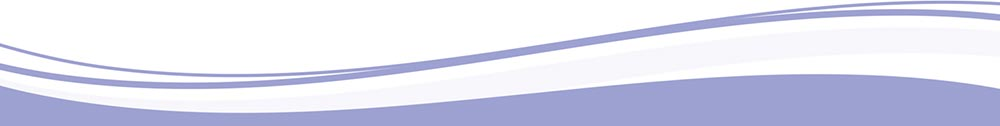
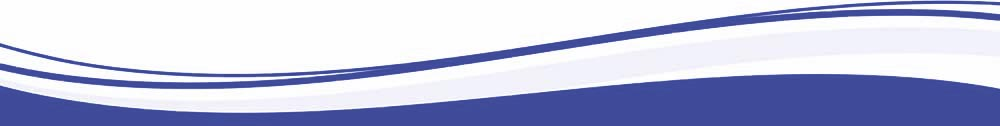
Email template fix

diff --git a/wp-content/themes/holidays/includes/helpers/class-mailer.php b/wp-content/themes/holidays/includes/helpers/class-mailer.php
@@ -6,6 +6,8 @@ if ( ! defined( 'ABSPATH' ) ) {
 
 class Kanda_Mailer {
 
+    private $layout_path = '';
+
     /**
      * Singleton.
      */
@@ -18,44 +20,10 @@ class Kanda_Mailer {
     }
 
     /**
-     * Get html email header
-     *
-     * @return string
+     * Constructor
      */
-    // todo --> replace img src
-    private function get_html_email_header() {
-        return
-            '<html>
-                <body style="background:#fff;">
-                    <table>
-                        <tr>
-                            <td>
-                                <img style="width:1000px;" src="http://kandaclub.com/wp-content/themes/kanda/holidays/header.jpg" alt="header" />
-                            </td>
-                        </tr>
-                        <tr>
-                            <td style="padding-left:50px;padding-right:50px;font-size:14px">';
-
-
-    }
-
-    /**
-     * Get html email footer
-     * @return string
-     */
-    // todo --> replace img src
-    private function get_html_email_footer() {
-        return
-            '</td>
-                        </tr>
-                        <tr>
-                            <td>
-                                <img style="width:1000px;" src="http://kandaclub.com/wp-content/themes/kanda/holidays/footer.jpg" alt="header" />
-                            </td>
-                        </tr>
-                    </table>
-                </body>
-            </html>';
+    public function __construct() {
+        $this->layout_path = trailingslashit( KH_THEME_PATH . 'views/email' );
     }
 
     /**
@@ -116,14 +84,15 @@ class Kanda_Mailer {
      */
     private function normalize_email_content ( $message, $variables = array() ) {
 
-        $header = $this->get_html_email_header();
         $message = strtr( apply_filters( 'the_content', $message ), array_merge(
             $this->get_email_constant_variables(),
             $variables
         ) );
-        $footer = $this->get_html_email_footer();
 
-        return $header . $message . $footer;
+        ob_start();
+        include $this->layout_path . 'user.php';
+
+        return ob_get_clean();
     }
 
     /**
@@ -149,7 +118,6 @@ class Kanda_Mailer {
     /**
      * Send email to admin
      *
-     * @param $user_id_email
      * @param $subject
      * @param $message
      * @param array $variables

diff --git a/wp-content/themes/holidays/includes/front/front-functions.php b/wp-content/themes/holidays/includes/front/front-functions.php
@@ -337,7 +337,7 @@ function kanda_check_login() {
     }
 
     ob_start();
-    include ( KH_THEME_PATH . 'template-parts/front/login.php' );
+    include ( KH_THEME_PATH . 'views/front/login.php' );
     echo ob_get_clean();
 
 }
@@ -652,7 +652,7 @@ function kanda_check_register() {
     }
 
     ob_start();
-    include get_template_directory() . '/template-parts/front/register.php';
+    include get_template_directory() . '/views/front/register.php';
     echo ob_get_clean();
 
 }
@@ -745,7 +745,7 @@ function kanda_check_forgot_password() {
     }
 
     ob_start();
-    include get_template_directory() . '/template-parts/front/forgot.php';
+    include get_template_directory() . '/views/front/forgot.php';
     echo ob_get_clean();
 
 }
@@ -881,7 +881,7 @@ function kanda_check_reset_password() {
     }
 
     ob_start();
-    include get_template_directory() . '/template-parts/front/reset.php';
+    include get_template_directory() . '/views/front/reset.php';
     echo ob_get_clean();
 
 }

diff --git a/wp-content/themes/holidays/views/email/user.php b/wp-content/themes/holidays/views/email/user.php
@@ -1,0 +1,19 @@
+<html>
+    <body style="background:#fff;">
+        <table>
+            <tr>
+                <td>
+                    <img style="width:1000px;" src="http://kandaclub.com/wp-content/themes/kanda/holidays/header-blue.jpg" alt="header" />
+                </td>
+            </tr>
+            <tr>
+                <td style="padding-left:50px;padding-right:50px;font-size:12pt;color:#000;"><?php echo $message; ?></td>
+            </tr>
+            <tr>
+                <td>
+                    <img style="width:1000px;" src="http://kandaclub.com/wp-content/themes/kanda/holidays/footer-blue.jpg" alt="header" />
+                </td>
+            </tr>
+        </table>
+    </body>
+</html>

diff --git a/wp-content/themes/holidays/views/front/login.php b/wp-content/themes/holidays/views/front/login.php
@@ -32,7 +32,7 @@ if( $forgot_password_page_id = kanda_fields()->get_option( 'kanda_auth_page_forg
                     <div class="message message-<?php echo $kanda_request['success'] ? 'success' : 'error'; ?>"><?php echo $kanda_request['message']; ?></div>
                 <?php } ?>
 
-                <form method="post">
+                <form id="form-login" method="post">
                     <?php $has_error = ! $kanda_request['fields']['username']['valid']; ?>
                     <div class="row clearfix <?php echo $has_error ? 'has-error' : ''; ?>">
                         <label for="username"><?php esc_html_e( 'Username', 'kanda' ); ?>:</label>

diff --git a/wp-content/themes/holidays/header-guest.php b/wp-content/themes/holidays/header-guest.php
@@ -8,7 +8,7 @@
 
     <body <?php body_class(); ?>>
 
-        <?php get_template_part( 'template-parts/front/slides' ); ?>
+        <?php get_template_part( 'views/front/slides' ); ?>
 
         <div class="wrapper">
 
